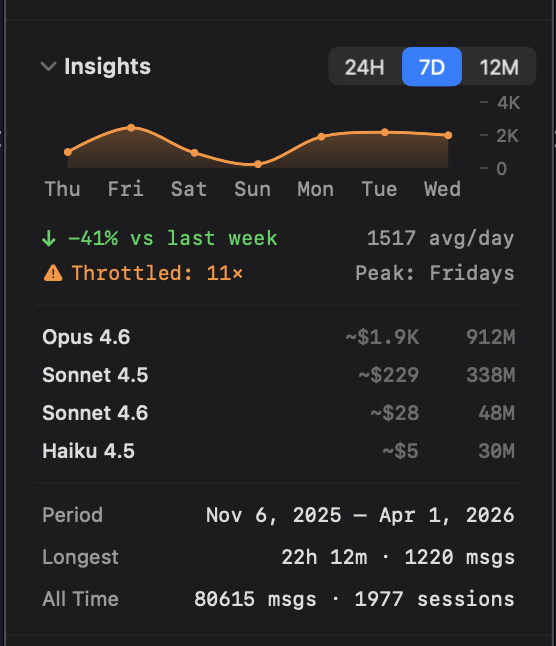
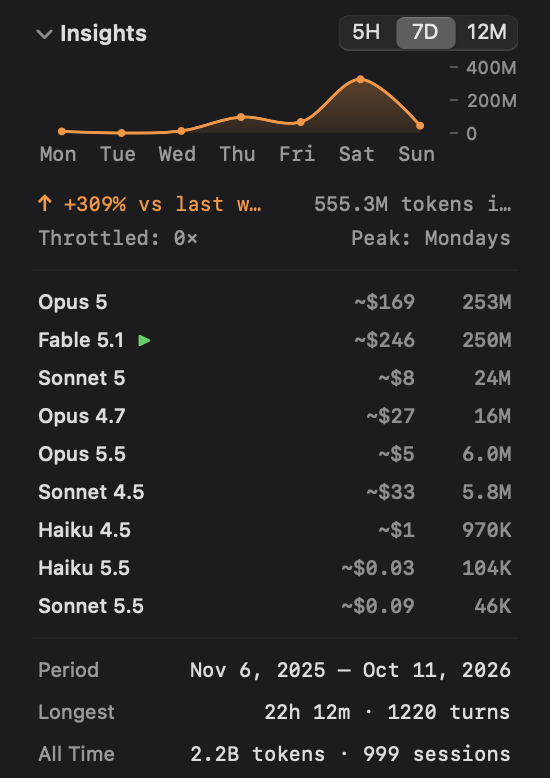
docs: refresh screenshots for the v3.0.0 UI
Recapture every popover screenshot from the installed v3.0.0 build:
account chip header, 5-hour/7-day bars, context health, settings,
projects, insights (5H/7D/12M), full popover and menu bar. Replace the
v2.0.8 hero with full-popover-v3.0.0.png and fix the stale 24H chart
row (the Insights picker has been 5H | 7D | 12M since v1.9).

Note: opening Settings in v3.0.0 does not resize the panel (content is
vertically centred and clipped from the collapsed state). settings.png
was captured with Context+Projects pre-expanded and cropped to the
content; the resize bug itself is not addressed here.

diff --git a/README.md b/README.md
@@ -19,7 +19,7 @@ Monitor rate limits, context health, and token usage for Claude Code **and** Ope
 
 <br/>
 
-<img src="screenshots/full-popover-v2.0.8.png" width="520" alt="AI Battery open in the menu bar showing 5-hour and 7-day rate limits, throttling status, context health, projects, and insights" />
+<img src="screenshots/full-popover-v3.0.0.png" width="480" alt="AI Battery open in the menu bar: account chip header, 5-hour and 7-day rate limits with reset countdowns, context health for the current session, projects and insights" />
 
 <p><strong>Live rate limits, context health, and usage trends without leaving the menu bar.</strong></p>
 
@@ -218,7 +218,7 @@ Click ⚙ in the header to configure:
 | 🚀 **Launch at Login** | Start automatically when you log in |
 
 <div align="center">
-<img src="screenshots/settings.png" width="360" alt="Settings panel with refresh interval, idle session cutoff, colorblind mode, alerts, and launch at login" />
+<img src="screenshots/settings.png" width="360" alt="Settings panel with Claude and Codex account names, refresh interval, idle session cutoff, display options, alerts, and launch at login" />
 </div>
 
 > [!TIP]
@@ -232,14 +232,14 @@ Interactive charts across three time windows:
 
 | Mode | Window | Shows |
 |---|---|---|
-| **24H** | Trailing 24 hours | Hourly activity, vs-yesterday trend, peak hour |
+| **5H** | Trailing 5 hours | 15-minute token buckets, vs-yesterday trend, throttle count, peak hour |
 | **7D** | Rolling 7 days | Daily activity, weekly trend, busiest day |
 | **12M** | Rolling 12 months | Monthly activity, month-over-month trend, busiest month |
 
 Below the chart: API-equivalent cost per model, throttle count, and cumulative stats (All Time messages/sessions, Longest session, Period date range).
 
 <div align="center">
-<img src="screenshots/activity.png" width="360" alt="24-hour activity chart with trend arrows, throttle count, and cost breakdown by model" />
+<img src="screenshots/activity.png" width="360" alt="5-hour activity chart with trend arrows, throttle count, and API-equivalent cost breakdown by model" />
 </div>
 
 ---
